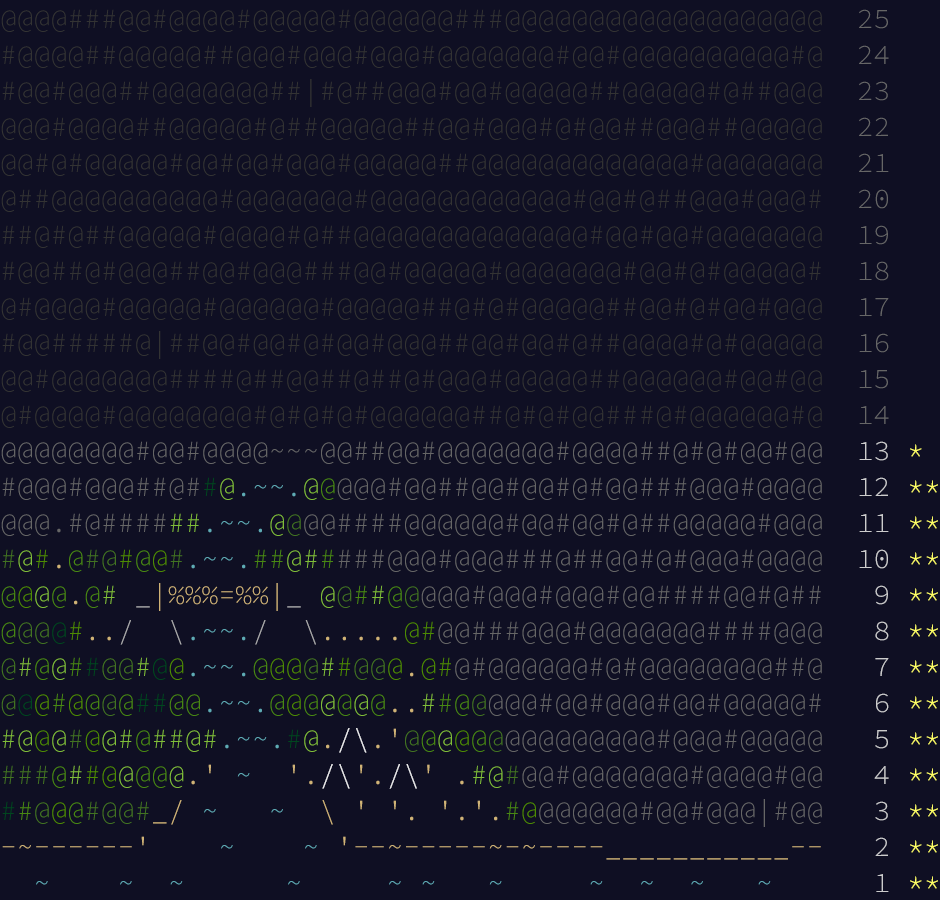
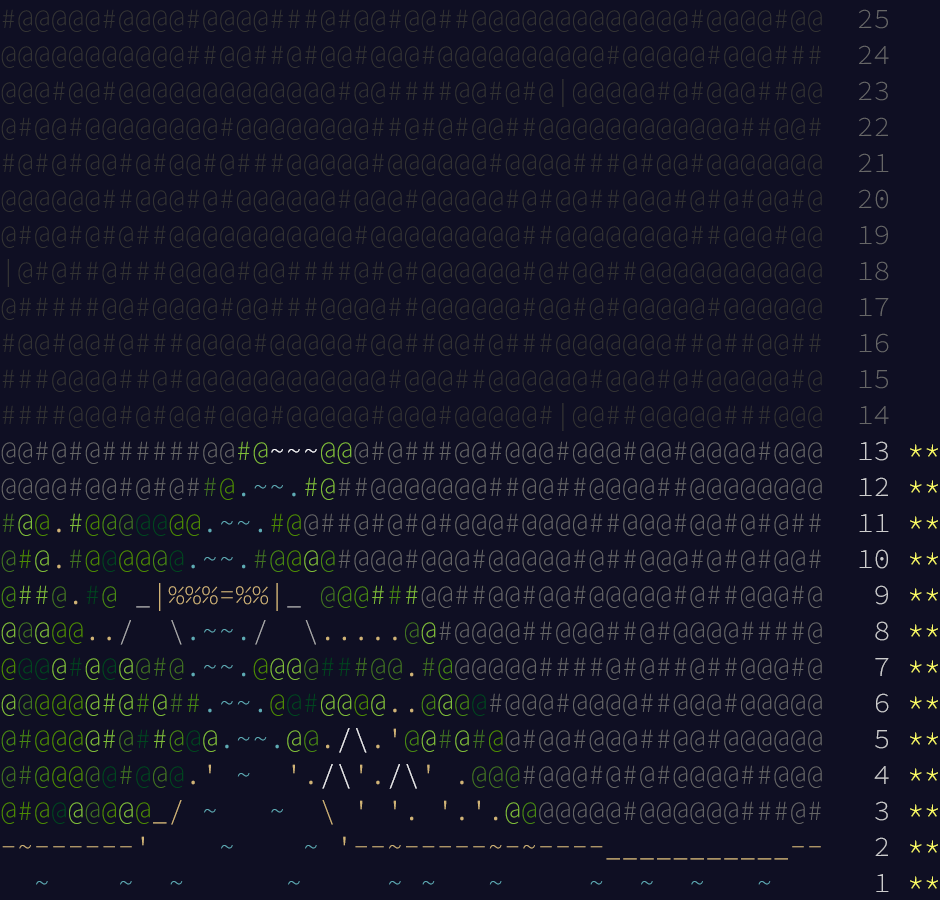
javascript: 2022.13, part 2: solve

diff --git a/2022/javascript/aoc13.js b/2022/javascript/aoc13.js
@@ -1,23 +1,62 @@
 import { open } from 'node:fs/promises'
 import { join } from 'node:path'
 
-const file = await open(join('..', '13.txt'))
-const lines = file.readLines()[Symbol.asyncIterator]()
+await part1()
+await part2()
 
-for (let i = 1, sum = 0;; i++) {
-    const first = await lines.next()
-    const second = await lines.next()
+async function part1() {
+    const file = await open(join('..', '13.txt'))
+    const lines = file.readLines()[Symbol.asyncIterator]()
 
-    lines.next() // skip empty
+    for (let i = 1, sum = 0;; i++) {
+        const first = await lines.next()
+        const second = await lines.next()
 
-    if (first.done || second.done) {
-        console.log(sum)
-        break
+        lines.next() // skip empty
+
+        if (first.done || second.done) {
+            console.log(sum)
+            break
+        }
+
+        if (compare(JSON.parse(first.value), JSON.parse(second.value)) <= 0) {
+            sum += i
+        }
+    }
+}
+
+async function part2() {
+    const firstDivider = JSON.parse('[[2]]');
+    const secondDivider = JSON.parse('[[6]]');
+
+    const file = await open(join('..', '13.txt'))
+    const lineIterator = file.readLines()[Symbol.asyncIterator]()
+    const packets = []
+
+    while (true) {
+        const first = await lineIterator.next()
+        const second = await lineIterator.next()
+
+        lineIterator.next() // skip empty
+
+        if (first.done || second.done) {
+            packets.push(firstDivider, secondDivider)
+            break
+        }
+
+        packets.push(JSON.parse(first.value), JSON.parse(second.value))
     }
 
-    if (compare(JSON.parse(first.value), JSON.parse(second.value)) <= 0) {
-        sum += i
+    packets.sort(compare)
+
+    function findIndex(divider) {
+        return packets.findIndex((packet) => compare(packet, divider) === 0) + 1
     }
+
+    const firstIndex = findIndex(firstDivider)
+    const secondIndex = findIndex(secondDivider)
+
+    console.log(firstIndex * secondIndex)
 }
 
 function compare(left, right) {

diff --git a/2022/README.md b/2022/README.md
@@ -12,7 +12,7 @@
 @@@@@@@@@@#@@@@#@##@@@##@@@@@#@@@@@@@@##@@#@@@@@@  16
 @#@@@@##@@@@#@@@#@@#@@@#@#@@@#@#@@#@@#@###@@@##@#  15
 @#@@@@@#@@@@@@@@@@@@@#@#@@#@@##@@@##@@@@@#@###@@#  14
-@@@@@@@@#@@#@@@@~~~@@##@@#@@@@@@@#@@@@##@#@#@@#@@  13 *
+@@#@#@######@@#@~~~@@@#@###@@#@@@#@@@#@@#@@@@#@@@  13 **
 @#@@@@#@@@@@@@.~~.@#@@@##@@#@@@@@#@#@####@##@@#@@  12 **
 #@##@@#@#@##.~~.@@@@@@@@@@@###@#@@#@@@@###@@@@@@@  11 **
 @#@##@@@@@@.~~.#@@###@@@#@@@@@##@@#@#@@@##@#@##@@  10 **
@@ -27,4 +27,4 @@
   ~    ~  ~      ~     ~ ~   ~     ~  ~  ~   ~      1 **
 ```
 
-![Calendar after day 13, part 1](calendar.png)
+![Calendar after day 13](calendar.png)
